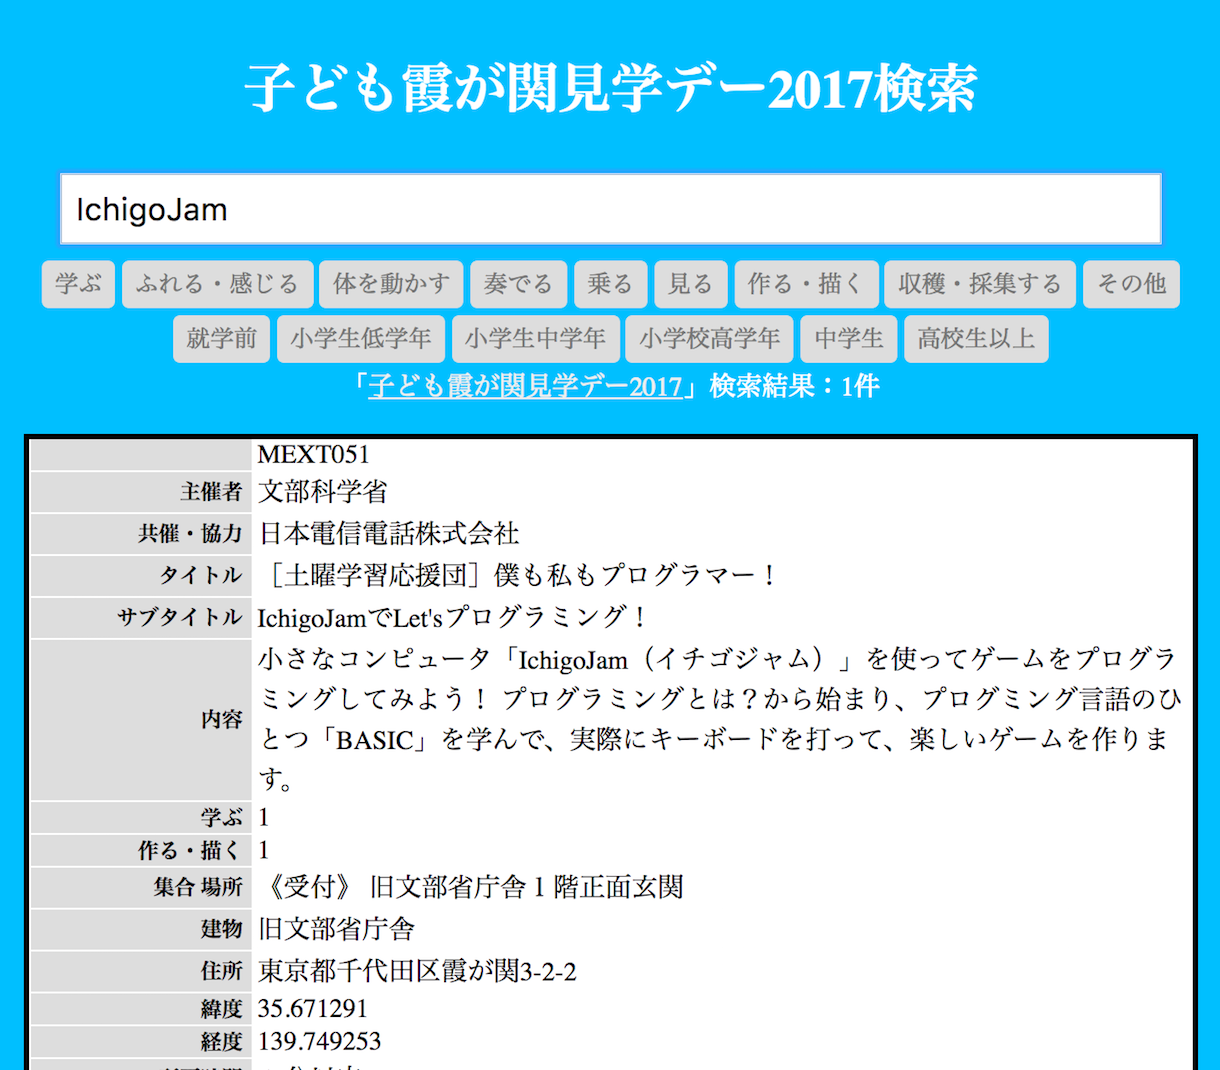
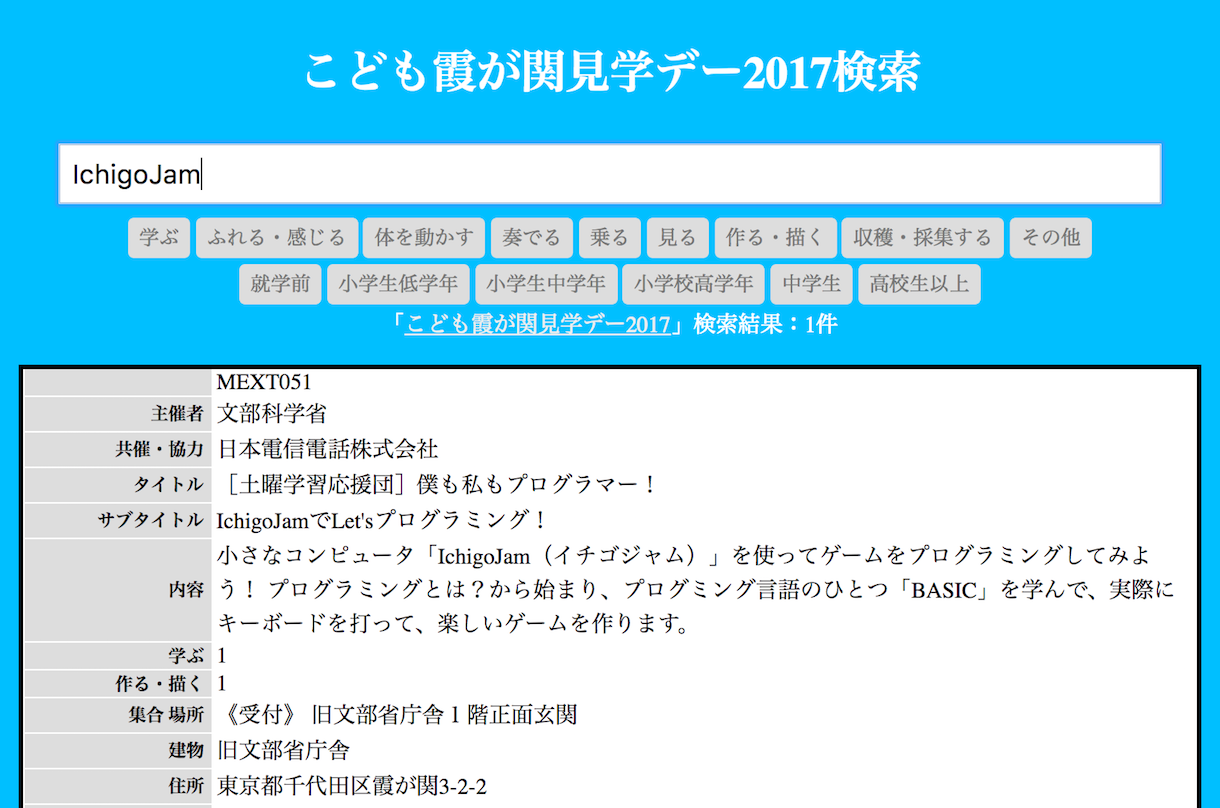
mod

Changed region(s): [[0.0, 0.1547, 0.9967, 1.0], [0.1869, 0.0619, 0.8098, 0.1238]]

diff --git a/index.html b/index.html
@@ -1,7 +1,7 @@
 <html>
 <head>
 <meta charset="utf-8"/>
-<title>子ども霞が関見学デー2017検索</title>
+<title>こども霞が関見学デー2017検索</title>
 <meta name="viewport" content="target-densitydpi=middle-dpi, initial-scale=1.0, maximum-scale=1.0, minimum-scale=1.0, user-scalable=no"/>
 <meta name="apple-mobile-web-app-capable" content="yes"/>
 <meta name="apple-mobile-web-app-status-bar-style" content="black"/>
@@ -275,14 +275,14 @@ a {
 </head>
 <body>
 
-<h1>子ども霞が関見学デー2017検索</h1>
+<h1>こども霞が関見学デー2017検索</h1>
 <div id="srchboxc"><input type="text" id="srchbox" placeholder="検索キーワード"></div>
 <div id="sellist"></div>
-「<a href=http://www.mext.go.jp/a_menu/ikusei/kengaku/>子ども霞が関見学デー2017</a>」検索結果：<span id="cnt">-</span>件<br>
+「<a href=http://www.mext.go.jp/a_menu/ikusei/kengaku/>こども霞が関見学デー2017</a>」検索結果：<span id="cnt">-</span>件<br>
 <div id="content">オープンデータ、読込中...</div>
 <br>
-DATA: CC BY <a href=https://docs.google.com/spreadsheets/d/1FEhoCeSrnW-D8YLSfy3wMDQcSABQf1qfZtz4jpwZ5sg/edit?usp=sharing target=_blank>平成29年度子ども霞が関見学デー プログラムオープンデータ</a><br>
-APP: CC BY <a href=http://fukuno.jig.jp/1816 target=_blank>子ども霞が関見学デー2017検索アプリ</a> - 福野泰介の一日一創</a><br>
+DATA: CC BY <a href=https://docs.google.com/spreadsheets/d/1FEhoCeSrnW-D8YLSfy3wMDQcSABQf1qfZtz4jpwZ5sg/edit?usp=sharing target=_blank>平成29年度こども霞が関見学デー プログラムオープンデータ</a><br>
+APP: CC BY <a href=http://fukuno.jig.jp/1816 target=_blank>こども霞が関見学デー2017検索アプリ</a> - 福野泰介の一日一創</a><br>
 (2016年版 APP: CC BY <a href=http://fukuno.jig.jp/1434 target=_blank>子ども霞が関見学デー2016検索</a>)<br>
 (base APP: CC BY < (<a href=https://sabae-plancontest.jp/ target=_blank>鯖江市地域活性化プランコンテスト｜市長をやりませんか？</a>」検索アプリ)<br>
 </div>
